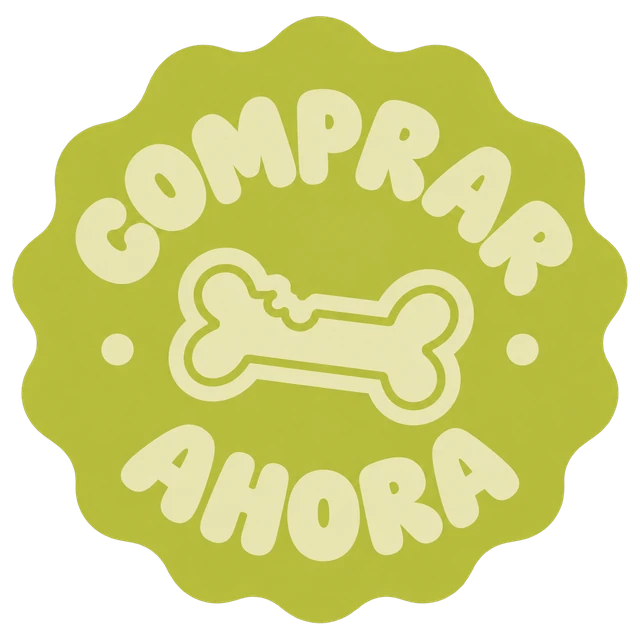
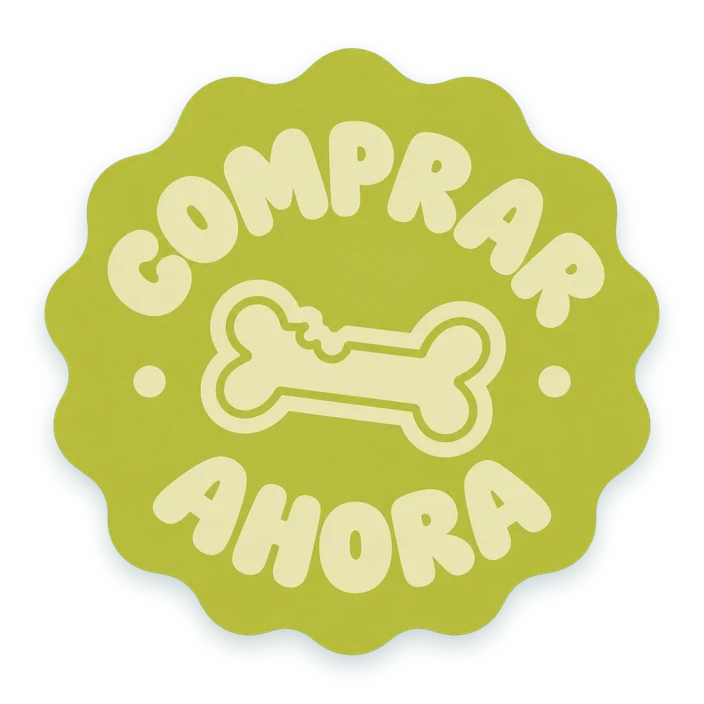
Hero: la sombra del sticker "Comprar ahora" va horneada en el WebP
En iOS el filter: drop-shadow sobre la <img> (dentro del <a> con transform
y con decoding async) a veces se rasterizaba sobre el rectángulo entero y
salía un cuadro gris al cargar la página. Sin filtro no hay nada que
rasterizar: el WebP trae la sombra y 32px de aire por lado (704 en vez de
640); el CSS ya compensa el aire con --hst-w/--hst-aire (entró en ac9c5aa
junto con el bonche).

Changed region(s): [[0.0, 0.0, 1.0, 1.0], [0.75, 0.6875, 0.7812, 0.7188]]

diff --git a/CLAUDE.md b/CLAUDE.md
@@ -79,7 +79,7 @@ Las páginas grandes NO usan las secciones `main-*` genéricas: cada una es **un
 
 | Página | Plantilla | Sección | Assets | Scope |
 |---|---|---|---|---|
-| Landing | `index.json` | hero (desde 2026-09-14 con el sticker "Comprar ahora" `.hero__sticker` arriba a la derecha —link al catálogo, ajustes `show_sticker` / `sticker_url`—, `bungot-sticker-comprar.webp`), favoritos (foto + caja de texto "Ver producto"; el bloque "panel" de Juguetes lleva chip + párrafo + botón; desde 2026-09-14 cada bloque puede llevar un **sticker arriba a la derecha** —ajustes `sticker_asset`/`sticker_alt`, `.fav__sticker` en `base.css`— que va DENTRO del `.fav` para que la misma cortina lo cambie con el scroll: hoy envío gratis → 10% off → un solo ingrediente → 100% naturales, `bungot-sticker-envio/10off/ingrediente/naturales.webp`, recortados de los PNG de `OneDrive/Documents/bungot/stickers_interactivos`), statement, feature-panel (desde 2026-09-14 con el ajuste `image` cargado va en su **variante foto** `.fpanel__box--foto`: la foto del shih tzu redondeada a la izquierda, el repartidor `scaleX(-1)` montado sobre su esquina inferior derecha —por eso el "BUNGOT" de la caja se lee al revés, igual que en el mockup— y titular en mayúsculas + párrafo de 28ch + botón alineados a la derecha; sin foto es el panel de siempre, que es el que monta el catálogo), conocenos-bonche (bonche de 10 fotos que se dispersa + titular/CTA a Conócenos; se ajusta con ?acomodar; desde 2026-09-14 **las fotos se cambian desde el customizer**: el wrapper va en `pointer-events: none`, así que la sección emite `data-design-mode` con `request.design_mode` y solo ahí cada tarjeta recibe el clic (`base.css`), `theme.js` escucha `shopify:block:select/deselect` para clavar el bonche abierto y marcar la tarjeta, e `initBonche` es idempotente y se re-arma con `shopify:section:load` — no rompas ese enganche al tocar el bonche. **En teléfono (≤640) el acomodo es un collage fijo de seis huecos** calcado de un mockup del 2026-09-15 (dos racimos que se traslapan y se meten al renglón del titular y del botón): el `@media` de `.bonche` en `base.css` ignora fx/fy Y el formato del bloque, mide todo en `--u` (1vw de un 390×730, capado por `--svh`) y cuelga cada foto del bloque de texto con `--sep` en `--u`, negativo = se mete al texto; las fotos se asignan por posición de bloque (2, 3, 4, 6, 7 y 9 se ven; 5, 8, 10 y 11 se esconden) y el orden de apilado va explícito), full-photo | base.css / theme.js | — |
+| Landing | `index.json` | hero (desde 2026-09-14 con el sticker "Comprar ahora" `.hero__sticker` arriba a la derecha —link al catálogo, ajustes `show_sticker` / `sticker_url`—, `bungot-sticker-comprar.webp` — **con la sombra horneada en el WebP desde 2026-09-15**, lienzo 704 con 32px de aire por lado que el CSS compensa con `--hst-w`/`--hst-aire`: el `filter: drop-shadow` sobre la `<img>` en iOS a veces se rasterizaba como un cuadro gris al cargar; no lo regreses), favoritos (foto + caja de texto "Ver producto"; el bloque "panel" de Juguetes lleva chip + párrafo + botón; desde 2026-09-14 cada bloque puede llevar un **sticker arriba a la derecha** —ajustes `sticker_asset`/`sticker_alt`, `.fav__sticker` en `base.css`— que va DENTRO del `.fav` para que la misma cortina lo cambie con el scroll: hoy envío gratis → 10% off → un solo ingrediente → 100% naturales, `bungot-sticker-envio/10off/ingrediente/naturales.webp`, recortados de los PNG de `OneDrive/Documents/bungot/stickers_interactivos`), statement, feature-panel (desde 2026-09-14 con el ajuste `image` cargado va en su **variante foto** `.fpanel__box--foto`: la foto del shih tzu redondeada a la izquierda, el repartidor `scaleX(-1)` montado sobre su esquina inferior derecha —por eso el "BUNGOT" de la caja se lee al revés, igual que en el mockup— y titular en mayúsculas + párrafo de 28ch + botón alineados a la derecha; sin foto es el panel de siempre, que es el que monta el catálogo), conocenos-bonche (bonche de 10 fotos que se dispersa + titular/CTA a Conócenos; se ajusta con ?acomodar; desde 2026-09-14 **las fotos se cambian desde el customizer**: el wrapper va en `pointer-events: none`, así que la sección emite `data-design-mode` con `request.design_mode` y solo ahí cada tarjeta recibe el clic (`base.css`), `theme.js` escucha `shopify:block:select/deselect` para clavar el bonche abierto y marcar la tarjeta, e `initBonche` es idempotente y se re-arma con `shopify:section:load` — no rompas ese enganche al tocar el bonche. **En teléfono (≤640) el acomodo es un collage fijo de seis huecos** calcado de un mockup del 2026-09-15 (dos racimos que se traslapan y se meten al renglón del titular y del botón): el `@media` de `.bonche` en `base.css` ignora fx/fy Y el formato del bloque, mide todo en `--u` (1vw de un 390×730, capado por `--svh`) y cuelga cada foto del bloque de texto con `--sep` en `--u`, negativo = se mete al texto; las fotos se asignan por posición de bloque (2, 3, 4, 6, 7 y 9 se ven; 5, 8, 10 y 11 se esconden) y el orden de apilado va explícito), full-photo | base.css / theme.js | — |
 | Catálogo | `collection.json` | `collection-bandas` (bandas por familia, collection-driven; padding lateral vía `--pg-pad` — 63/40/28/20 por corte —, en teléfono el perro del carrito sube arriba del título y en teléfono acostado las tarjetas se escalan al 62%; el bloque `suscripcion` está **DESMONTADO desde 2026-09-03** (a pedido: con la banda de paquetes justo abajo salía redundante) pero su código sigue en la sección para revivirlo con la suscripción — se vuelve a agregar en el customizer y pinta el panel arriba de las bandas: es **el mismo `.fpanel` de la landing** —solo `.fpanel--catalogo` en `productos.css` cambia el marco a `--pg-pad`—, con `order: -1` porque el filtro sube bandas con `order: 0`; su CTA con link vacío ancla a `#banda-cajas`, después cae a `caja_product` y al final a `/#suscripcion`. Desde 2026-09-01 el panel del catálogo va en **azul `#2E5FA0`** (el del bonche; el de la portada sigue naranja) y su gráfico lo elige el ajuste `art` del bloque: `sticker` (el perro en el kayak, `bungot-sticker-kayak.png`, `.fpanel__sticker` en `base.css`, **sin `data-peel` a propósito**: el panel es lo primero del catálogo y el peel por scroll lo dejaría medio tapado de gris en la primera pantalla) o `bici` (el repartidor de la portada)) | productos.css/js | `.pgal` |
 | PDP | `product.json`, `product.juguete.json`, `product.caja.json`, `product.suscripcion.json` | `producto-bungot` (split fijo 50/50: galería a la izquierda sobre el color de la familia — en escritorio (>1000) la galería es **una fila: tira de miniaturas VERTICAL a la izquierda | marco | flechas ▲ "n / total" ▼ a la derecha** (`.pdnav`; es el layout original, se quitó el 09-07 y **se regresó a pedido el 2026-09-10**: no lo vuelvas a quitar ni lo cambies por miniaturas debajo). La tira va después del marco en el markup y el CSS la manda a la izquierda con `order: -1`. La galería **cabe en la pantalla**: `.pdgal` mide `--pd-gal-h` (100 svh − header − 2×`--pd-gal-pad`, entre 480 y `--pd-frame-h` 700/620) y se centra en la pantalla con `--pd-gal-top` (el padding de arriba del panel sale de ahí, `--pd-media-pt`); el marco toma ese alto y a lo ancho lo que dejan tira y flechas hasta `--pd-frame-w` (520/460); las miniaturas se reparten el alto, cuadradas, de 56 a `--pd-thumb` (92/80). Solo la foto principal (la bolsa) va a sangre, las demás fotos —infografías, perros— se **contienen** completas sobre crema (`data-fit="contain"`; a sangre se cortaban) y el video también se contiene. En ≤1000 las flechas no se pintan (`display: none`), la tira vuelve a ser horizontal con scroll **debajo** del marco, y el marco va al 100% de ancho con **una sola proporción para todos los productos, 9:16** (`--pd-frame-ar` fija en `producto.css`; desde 2026-09-07 ya no la escribe Liquid con el primer video, porque los productos sin video caían a cuadrado y medían distinto) y un tope de alto para que marco + tira quepan en `--svh` (medido con la barra de Chrome iOS puesta)— y la compra a la derecha **sobre crema a todo lo ancho, sin tarjeta** (se probó el split entero de color con la compra en tarjeta y se regresó a pedido ese mismo día: al usuario le gusta el panel de compra crema); cinturón, cruzada; la plantilla de las cajas prearmadas trae acordeones/beneficios de caja con stepper y cruzada prendidos; la de suscripción —asignada a la Caja BUNGOT, hoy en borrador— apaga el stepper de cantidad y la venta cruzada con los ajustes `show_stepper` / `show_cross` y trae acordeones y cinturón propios de la suscripción, nada de ingredientes/cuidados/envíos) | producto.css/js | `.pdpage` |
 | Carrito | `cart.json` | `cart-recibo` (recibo de papel, sugeridos, /cart/change.js; responsive con cortes 900 · 760 · 430 · 389 — el 389 NO es redundante, ver los comentarios de `carrito.css` —: título y total en `clamp`, miniatura de 92 en todos los anchos, ≤430 la línea es retícula con áreas y la ✕ absoluta, ≤389 los controles vuelven al renglón completo; el "· $ c/u" viaja en `.rlinea__unit` con `&nbsp;` porque el JS reescribe `[data-rc-unit]`; la sombra se compone en tres piezas —`box-shadow` en el cuerpo + copias `clip-path` desplazadas en los dientes, empalmadas 1px y en color sólido `--rc-sombra`—, nunca un `filter: drop-shadow` sobre el recibo entero: iOS lo rasteriza por mosaicos y la sombra salía troceada; y nada dentro del recibo lleva `border-radius` salvo el sello) | carrito.css/js | `.rcpage` |
